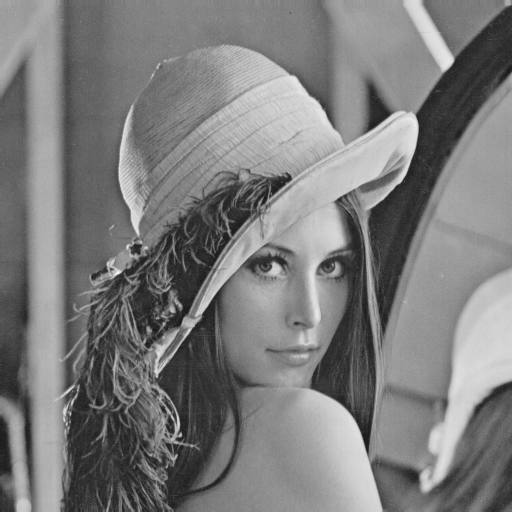
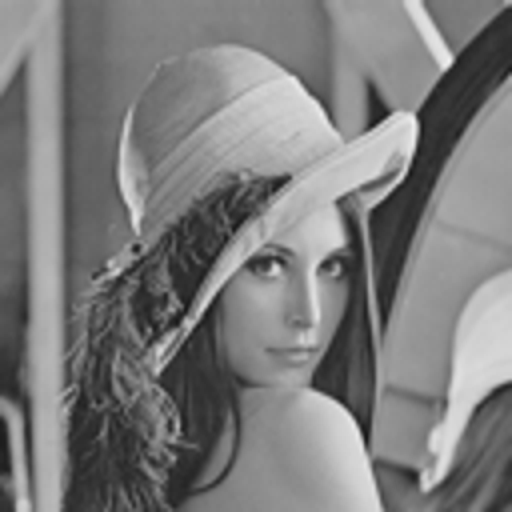
Fixed removing of 'copied' to be on closing of the main window Added "zoom" option, by making scaled copy of the original image

diff --git a/main.py b/main.py
@@ -14,8 +14,7 @@ def copy_image(filename):
     name = os.path.basename(filename)[:-4]
     new_filename = f'copied/{name + str(number)}.png'
     shutil.copy(filename, new_filename)
-    make_win1(new_filename)
-    os.remove(new_filename)
+    make_win1(new_filename,  1)
     number += 1
     return new_filename
 
@@ -28,24 +27,17 @@ def save_image(filename):
     print('Saved')
 
 
-def make_win1(filename):
+def make_win1(filename, scale):
     im = Image.open(filename)
-    im.thumbnail(size=(900, 900))
-    im.save(filename, format="PNG")
-    column = [[sg.Image(filename, size=(500, 500))]]
-    layout = [[sg.Column(column, scrollable=True, size=(500, 500))]]
-    right_click_menu = ['Unused', ['Refresh']]
-    return sg.Window(filename, layout, location=(800, 600),
-                     resizable=True, finalize=True,
-                     right_click_menu=right_click_menu)
-
-
-def make_win2(filename):
-    fig = plt.figure(figsize=(8, 8))
-    img = cv2.imread(filename)
-    fig.add_subplot(1, 1, 1)
-    plt.imshow(cv2.cvtColor(img, cv2.COLOR_BGR2RGB))
-    plt.show()
+    width, height = im.size
+    new_im = im.copy()
+    new_im_resized = new_im.resize((int(width*scale), int(height*scale)))
+    name = os.path.basename(filename)[:-4]
+    new_im_resized.save(f'copied/{name}.png', format='PNG')
+    column = [[sg.Image(f'copied/{name}.png')]]
+    layout = [[sg.Column(column, scrollable=True, size=(800, 800))]]
+    return sg.Window(filename, layout,
+                     resizable=True, finalize=True)
 
 
 def test_menus():
@@ -65,9 +57,9 @@ def test_menus():
                 ['&Lab7', []],
                 ['&Lab8', []], ]
 
-    right_click_menu = ['Unused', []]
+    right_click_menu = ['', ['Zoom', ['10%', '20%', '25%', '50%', '100%', '150%', '200%']]]
 
-    # ------ GUI Defintion ------ #
+    # ------ GUI Definition ------ #
     layout = [
         [sg.Menu(menu_def, tearoff=False, pad=(200, 1))],
         [sg.Output(expand_x=True, expand_y=True, size=(60, 5))]
@@ -84,13 +76,13 @@ def test_menus():
     while True:
         event, values = window.read()
         if event in (sg.WIN_CLOSED, 'Exit'):
+            shutil.rmtree('copied')
             break
         print(event, values)
         # ------ Process menu choices ------ #
         if event == 'Open':
             filename = sg.popup_get_file('file to open', no_window=True)
-            new_window = make_win1(filename)
-            # make_win2(filename)
+            new_window = make_win1(filename, 1)
             print(filename)
         elif event == 'Save':
             save_image(filename)
@@ -100,10 +92,22 @@ def test_menus():
             basichistogram.hist_mono(filename)
         elif event == 'Color':
             basichistogram.hist_color(filename)
-        elif event == 'refresh':
-            new_window.refresh()
+        elif event == '10%':
+            new_window = make_win1(filename, 0.10)
+        elif event == '20%':
+            new_window = make_win1(filename, 0.20)
+        elif event == '25%':
+            new_window = make_win1(filename, 0.25)
+        elif event == '50%':
+            new_window = make_win1(filename, 0.50)
+        elif event == '150%':
+            new_window = make_win1(filename, 1.50)
+        elif event == '200%':
+            new_window = make_win1(filename, 2.00)
+
     window.close()
 
 
 if __name__ == '__main__':
+    os.mkdir('copied')
     test_menus()
